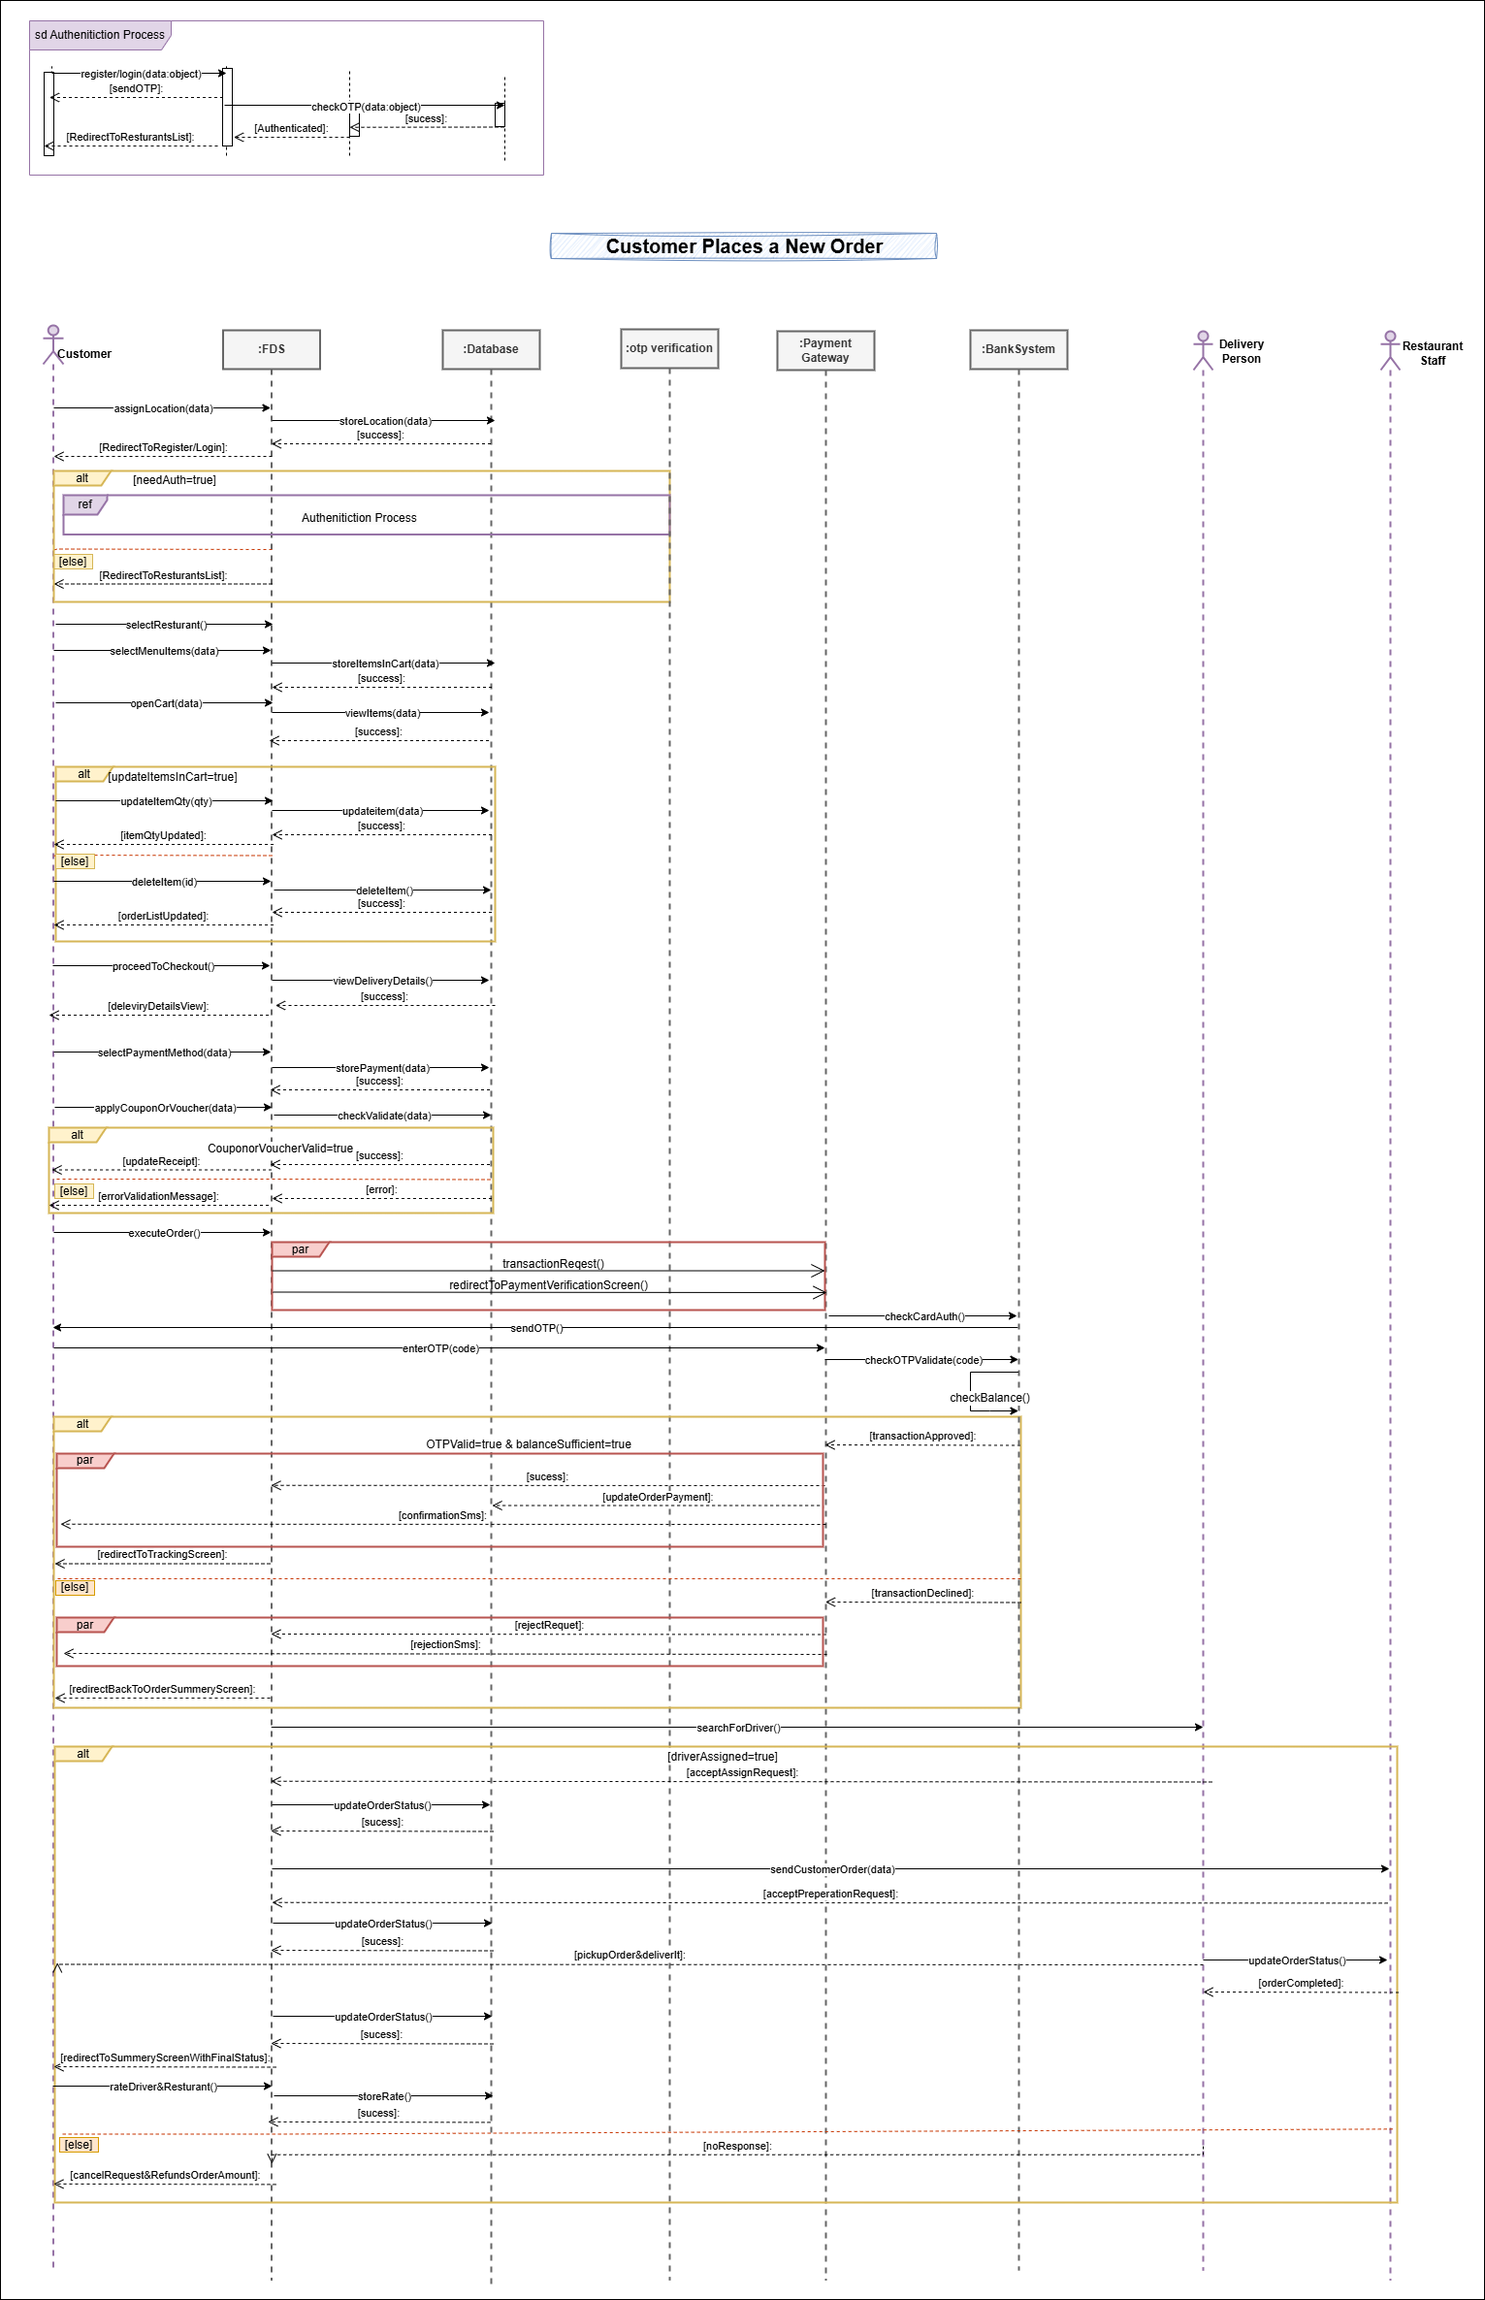
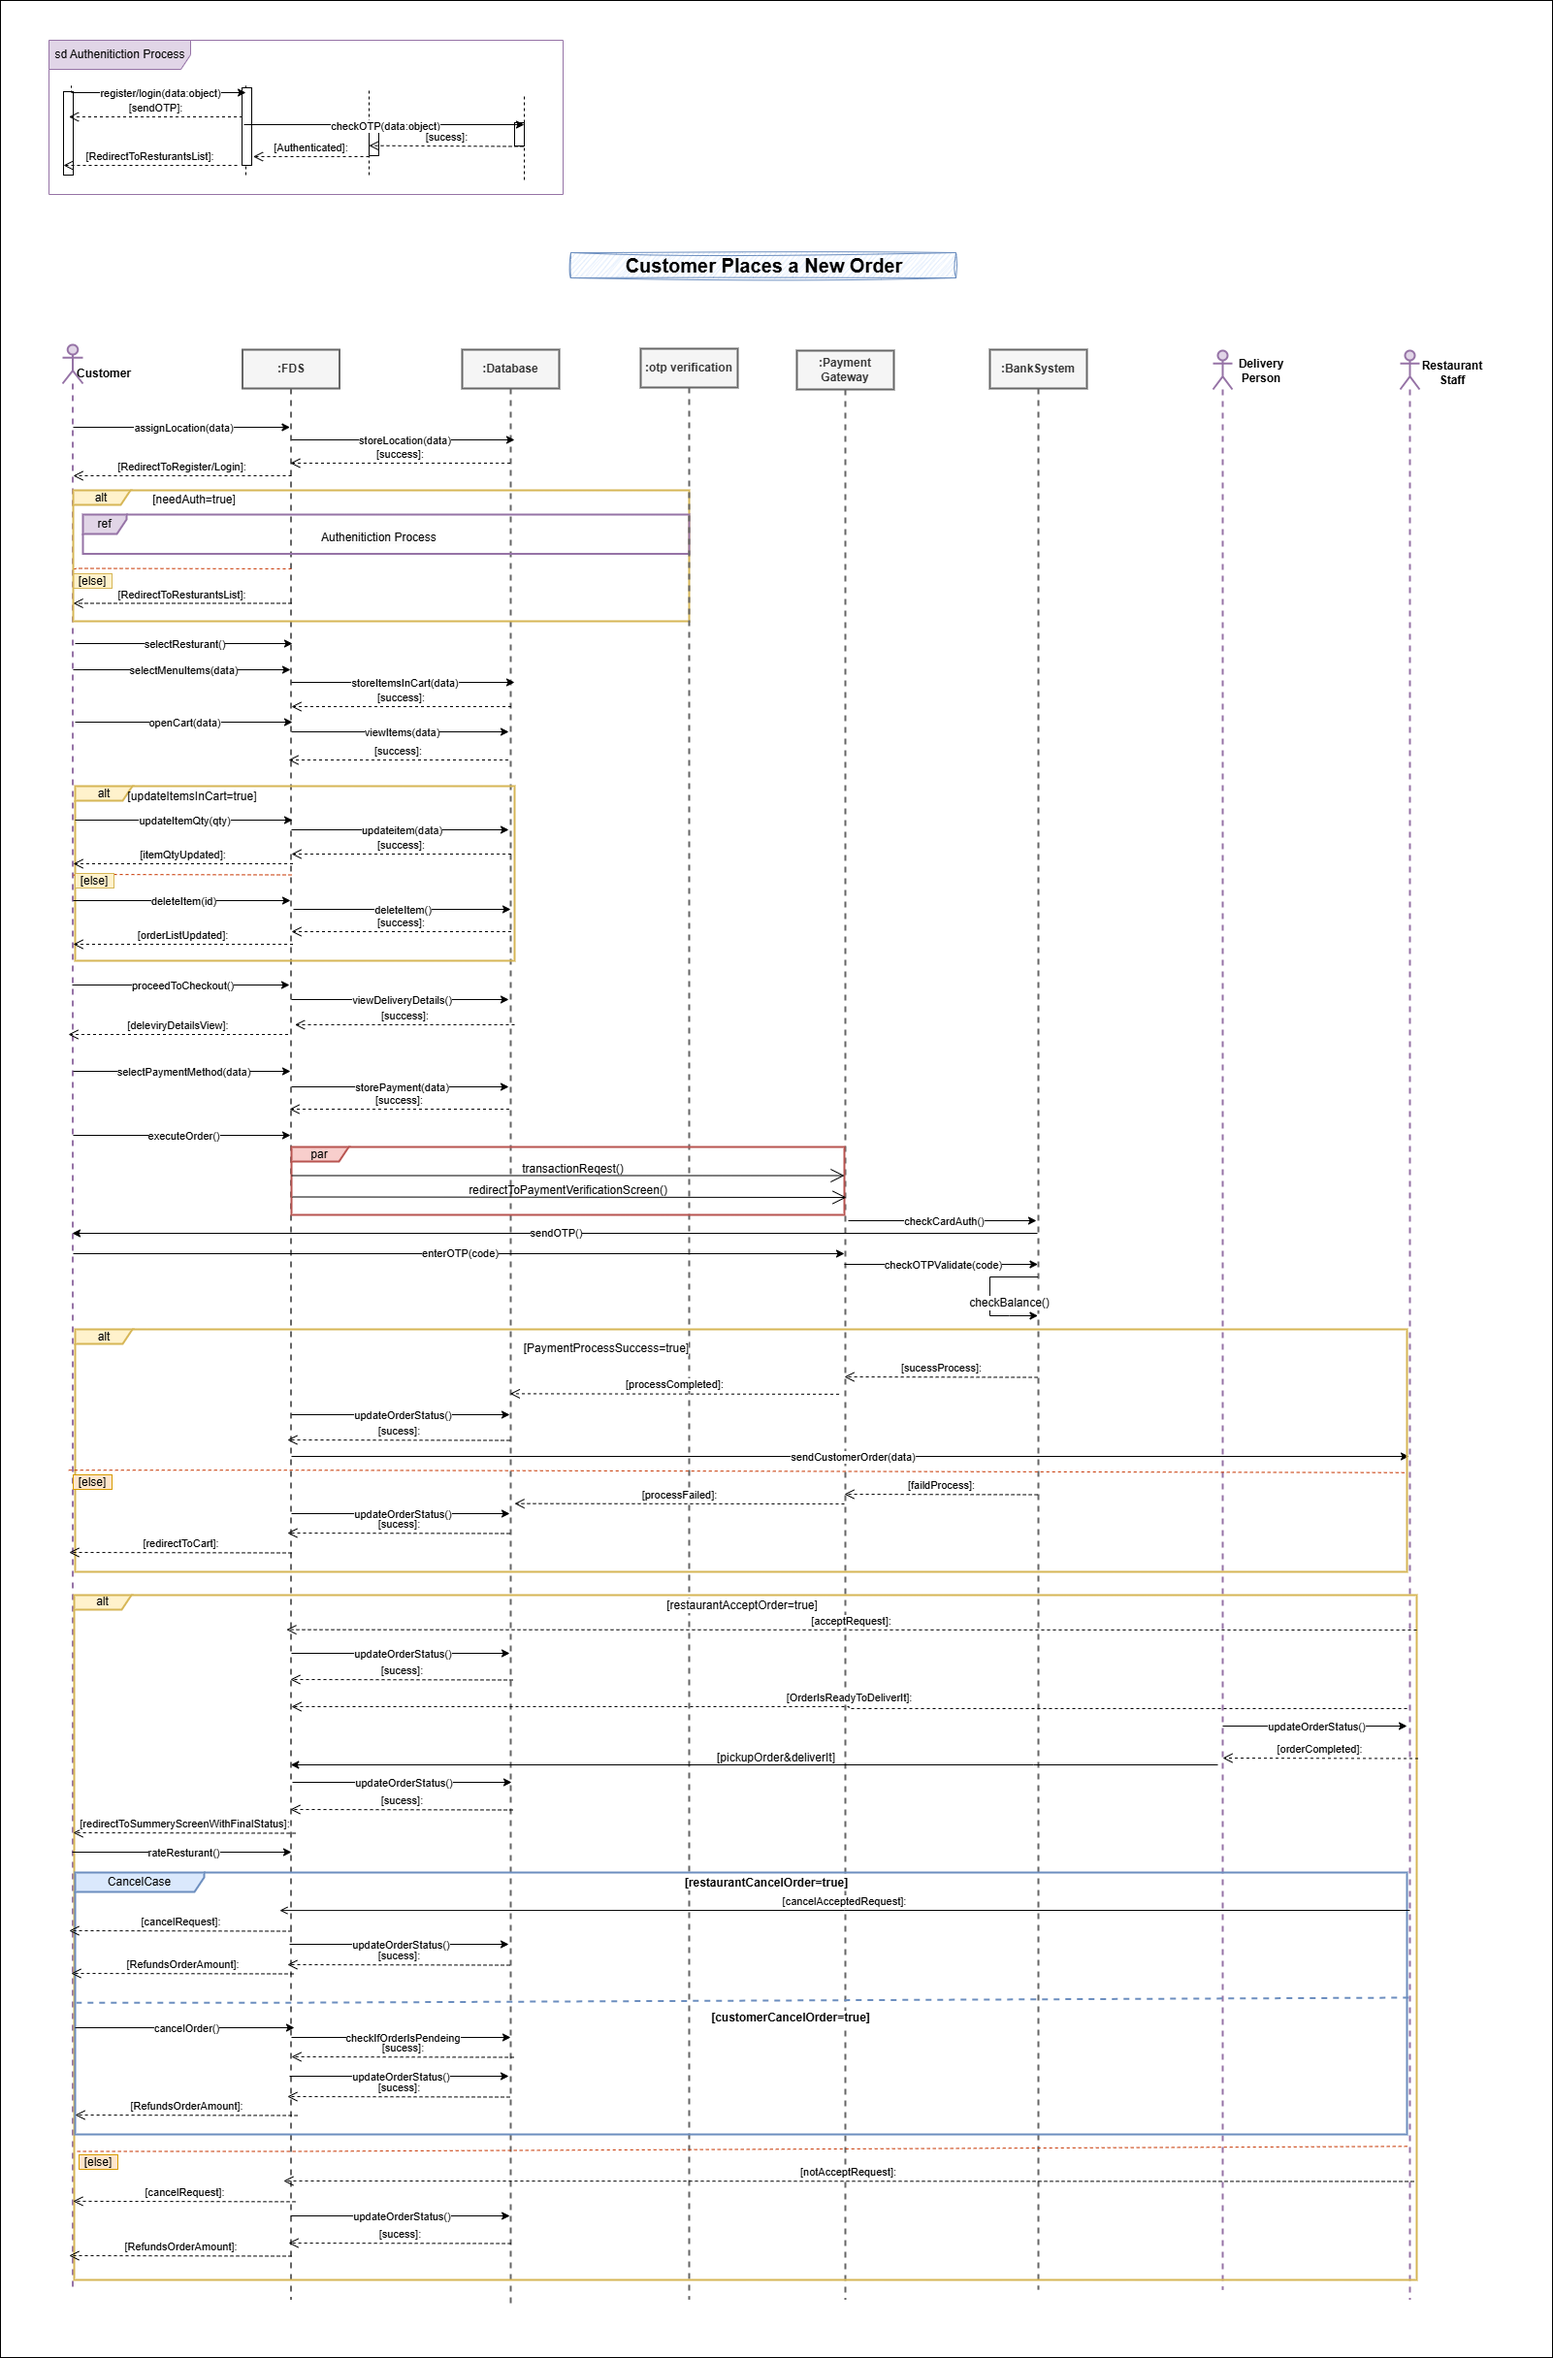
fix(docs): apply review comments to better focus on the manage order use case

diff --git a/docs/use-cases/manage-order.md b/docs/use-cases/manage-order.md
@@ -36,7 +36,7 @@ This documentation presents the full flow and core logic of the Place Order use 
 ### `Actors`  
 - Customer
 - Restaurant/Kitchen Staff
-- Delivery Person (Driver)
+- Delivery Person
 - Payment Gateway
 
 ### `Main Flow : Place New Order` 
@@ -59,28 +59,26 @@ The customer selects their preferred items and receives timely delivery at the s
 9. The system displays the delivery details, including the current delivery location. The customer can update the location or add a new one, and the system updates it accordingly.  
 10. The customer selects a payment method. If they choose a credit card or Visa, they enter the necessary card details.  
 11. If the customer does not select a payment method and wants to use the application’s wallet, the amount is deducted directly from the wallet. If the wallet balance is insufficient, the customer can recharge it or pay the remaining amount using a credit card or Visa.  
-12. The customer can apply a coupon or voucher if available. The system validates it and updates the receipt accordingly.  
-13. After selecting the delivery location, payment method, and reviewing the final order summary, the "Execute Order" button is enabled. The customer clicks on it to proceed to the **Payment Verification** screen for secure payment processing.  
-14. On the **Payment Verification** screen:  
+12. After selecting the delivery location, payment method, and reviewing the final order summary, the "Execute Order" button is enabled. The customer clicks on it to proceed to the **Payment Verification** screen for secure payment processing.  
+13. On the **Payment Verification** screen:  
     - An OTP is sent via SMS to the phone number linked to the customer's credit card or Visa.  
     - The customer enters the OTP.  
     - If the entered OTP matches the sent code and the account has sufficient funds, the payment is completed, and the order amount is deducted. The customer is then redirected to the **Order Tracking** screen.  
     - If the OTP is incorrect, the payment is declined, and the customer can re-enter the correct code or request a new OTP.  
     - If the OTP is correct but the account balance is insufficient, the payment is rejected, and a message is sent to the customer explaining the reason. The customer is then redirected back to the **Order Summary** screen.  
-15. After successful payment, the customer is redirected to the **Order Tracking** page.  
+14. After successful payment, the customer is redirected to the **Order Tracking** page.  
     - The system searches for a delivery person to accept the request.  
     - Once a delivery person is assigned, the order is sent to the restaurant for preparation.  
     - When the restaurant completes the preparation, the delivery person picks up the order and delivers it to the customer.  
     - The customer can track the order status at each stage:  
       **"Delivery person assigned," "Order is ready," "Delivery person is on the way,"** and **"Order delivered."**  
     - The customer can also track the delivery person's real-time location on the map.  
-16. Upon receiving the order, the system saves the order details, allowing the customer to access them later for reordering or issue resolution. The customer is then redirected to the **Order Summary** screen, displaying the final status: **"Order Delivered."**  
-17. After receiving the order, the customer can rate the delivery person and restaurant or submit a complaint if there is an issue with the order.
+15. Upon receiving the order, the system saves the order details, allowing the customer to access them later for reordering or issue resolution. The customer is then redirected to the **Order Summary** screen, displaying the final status: **"Order Delivered."**  
+16. After receiving the order, the customer can rate the delivery person and restaurant or submit a complaint if there is an issue with the order.
 
 **Postcondition**:  
 - **order Status Updated**: 
 	- The restaurant order is either in a "Delivery person found,", "Order is ready"  , "Delivery person is on the way," or "Order delivered" state, depending on the actions taken by the restaurant and the delivery person.
-. 
 - **Notification Sent**: 
 	- notification is sent to the customer each time the order status changes to keep them updated on its progress.
 
